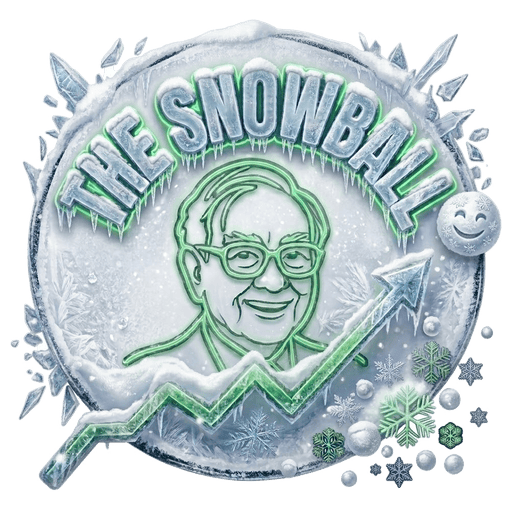
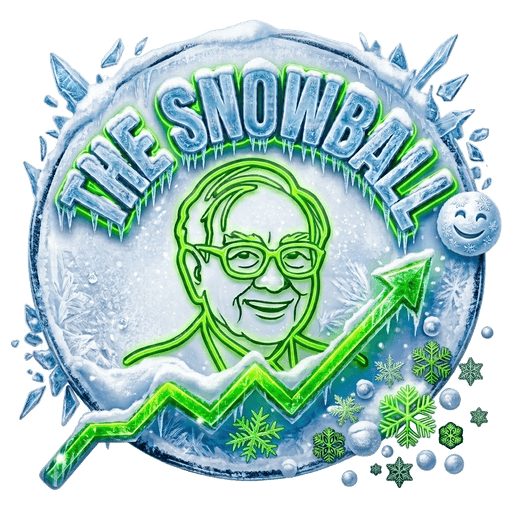
v285: לוגו מעודכן בכל הפלטפורמה (אתר, אייקונים, אנדרואיד, ווידג׳טים ותמונות הבורר) — באותו מלבן, בחדות מרבית
Claude-Session: https://claude.ai/code/session_017Mu42ec6eFX3iG4YQfLnDW

diff --git a/app.js b/app.js
@@ -4126,7 +4126,7 @@ function stripLegacyDemo(db) {
 }
 
 /* גרסת האפליקציה — מוצגת בהגדרות כדי לוודא שהטלפון מעודכן */
-const APP_VERSION = 'v284';
+const APP_VERSION = 'v285';
 
 
 function saveDBto(db) {

diff --git a/יומן-עבודה.md b/יומן-עבודה.md
@@ -1567,3 +1567,9 @@
 
 ## v284 — 30/09/2026 (Claude) — מעבר בין טאבים תמיד מראש העמוד
 - המשתמש: חזרה לעמוד שכבר היה פתוח באמצע — חוזר לאותה נקודה באמצע, מעבר לא אסתטי. עכשיו `switchTab` תמיד גולל לראש (לחיצה על לשונית או החלקה); שחזור הגלילה השמורה נשאר רק בפתיחת האפליקציה/רענון (`{ restore: true }` לטאב האחרון). נבדק: מעקב בגלילה 1200 → עסקאות → חזרה למעקב = 0; רענון בגלילה 1100 → 1100.
+
+## v285 — 30/09/2026 (Claude) — לוגו מעודכן בכל הפלטפורמה
+- המשתמש: להחליף את הלוגו בכל מקום (אתר, אפליקציה, ווידג׳טים) — הגרסה הכי חדה לכל גודל, בדיוק בגודל הנוכחי; רק הלוגו.
+- חילוץ מרקע לבן כמו v269 (הצפה + מסכות rembg u2net/isnet + un-premultiply) — נבדק על רקע כהה/ירוק/אדום, בלי הילה. כל קובץ נוצר באותו מלבן בדיוק של הלוגו הקודם (נמדד מהקובץ הקיים), הקטנה ב־LANCZOS על אלפא מוכפלת. בלי אובדן עד 200KB; מעל — pngquant באיכות מקסימלית (logo-header 97KB, icon-512 154KB, maskable 105KB).
+- הוחלפו: `logo-header` (384), `icon-192/512`, `icon-maskable-512`, `apple-touch-icon`, `favicon-48`, אנדרואיד `ic_launcher*` (5 צפיפויות ×2) + `widget_logo`, `brand/` (מאסטר 1024, 512, 256, מקור).
+- תמונות הבורר של הווידג׳טים: הלוגו הישן אותר בהתאמת תבנית (192px ב־(192,8)), הרקע מתחתיו שוחזר (שחור; הכרטיס הראשון — מהכרטיס השני, 114px מתחת, ותגית ה־IBKR מוזזת 14px כי AAPL ארוך מ־AXP), והלוגו החדש הורכב — 0 פיקסלים שונו מחוץ לריבוע. נבדק: הדר בצפיפות 2.625 בבהיר/כהה — חד. באנדרואיד (אייקון + ווידג׳ט) — אחרי התקנת ה־APK החדש (CI בונה).

diff --git a/brand/README.md b/brand/README.md
@@ -9,3 +9,5 @@
 איפה הלוגו מופיע באפליקציה (כולם נוצרו מהמאסטר, רקע שקוף, באותו גודל ומיקום כמו הלוגו הקודם):
 `logo-header.png` (כותרת), `icon-192.png` / `icon-512.png` / `icon-maskable-512.png` (PWA, גם מסך הכניסה), `apple-touch-icon.png`, `favicon-48.png`,
 ובאנדרואיד: `mipmap-*/ic_launcher*.png`, `drawable-nodpi/widget_logo.png` (רקע האייקון `icon_bg` שקוף).
+
+**v285 (30/09/2026)**: לוגו מעודכן — חולץ מהמקור על רקע לבן (הצפה מהקצוות + הגנת מסכת rembg + un-premultiply), כל קובץ באותו מלבן בדיוק של הלוגו הקודם, הקטנה ב־LANCZOS על אלפא מוכפלת (בלי הילה). בלי אובדן כשהקובץ ≤200KB; מעל — `pngquant` באיכות מקסימלית (logo-header, icon-512, icon-maskable-512). תמונות הבורר של הווידג׳טים (`widget_preview*.png`): הלוגו הוחלף במקום (192px ב־(192,8)), הרקע מתחתיו שוחזר (שחור + הכרטיס הראשון מהכרטיס השני, 114px מתחת, תגית IBKR מוזזת 14px) — אף פיקסל מחוץ לריבוע לא השתנה.
